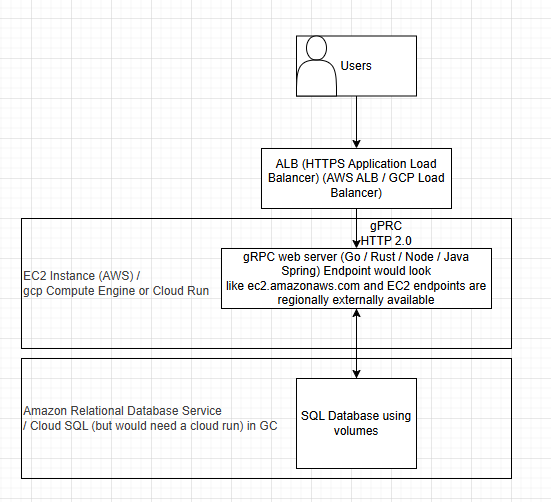
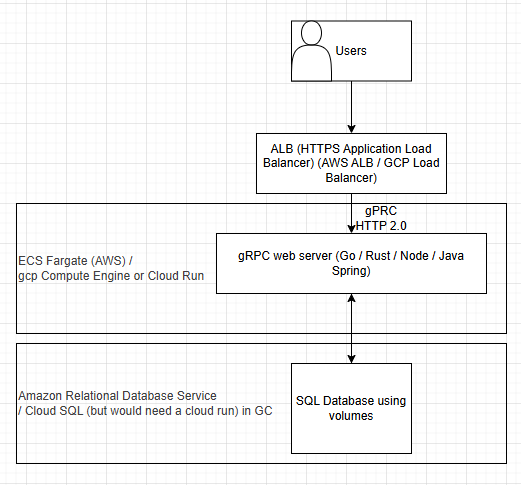
added presentation

Changed region(s): [[0.0307, 0.0309, 0.9827, 0.9588]]

diff --git a/option-b/gaussian_blur.py b/option-b/gaussian_blur.py
@@ -69,7 +69,7 @@ def gaussian_blur_1d(image_array, axis, stride):
     gaussian_1d = np.array([1, 2, 1])
     gaussian_1d_weight = 4
 
-    if axis == 0:  # Vertical blur
+    if axis == 0:  # Vertical blur, iterates over rows
         for row_idx, row in enumerate(image_array):
             for pixel_idx in range(0, len(row), stride):
                 # Add +1 offset to access the correct part of the padded image
@@ -83,7 +83,7 @@ def gaussian_blur_1d(image_array, axis, stride):
                     + padded_image[padded_row + 1][padded_col] * gaussian_1d[2]
                 ) // gaussian_1d_weight  # Normalise the image to ensure pixel value is 0-255
 
-    elif axis == 1:  # Horizontal blur
+    elif axis == 1:  # Horizontal blur, iterates over columns
         for row_idx, row in enumerate(image_array):
             for pixel_idx in range(0, len(row), stride):
                 # Add +1 offset to access the correct part of the padded image

diff --git a/option-b/README.md b/option-b/README.md
@@ -13,5 +13,5 @@ b. Are there any structural properties of the Gaussian kernel and convolution th
 # Please submit all code and a pdf of the presentation in a zipped folder the evening before the interview.
 
 # Assumptions
-- An image will be passed through via a funtion but a default image is fine - AssetCool won't be sending me one to use
+- An image will be passed through via a funtion 512x512
 - Image should be blurred in grayscale
